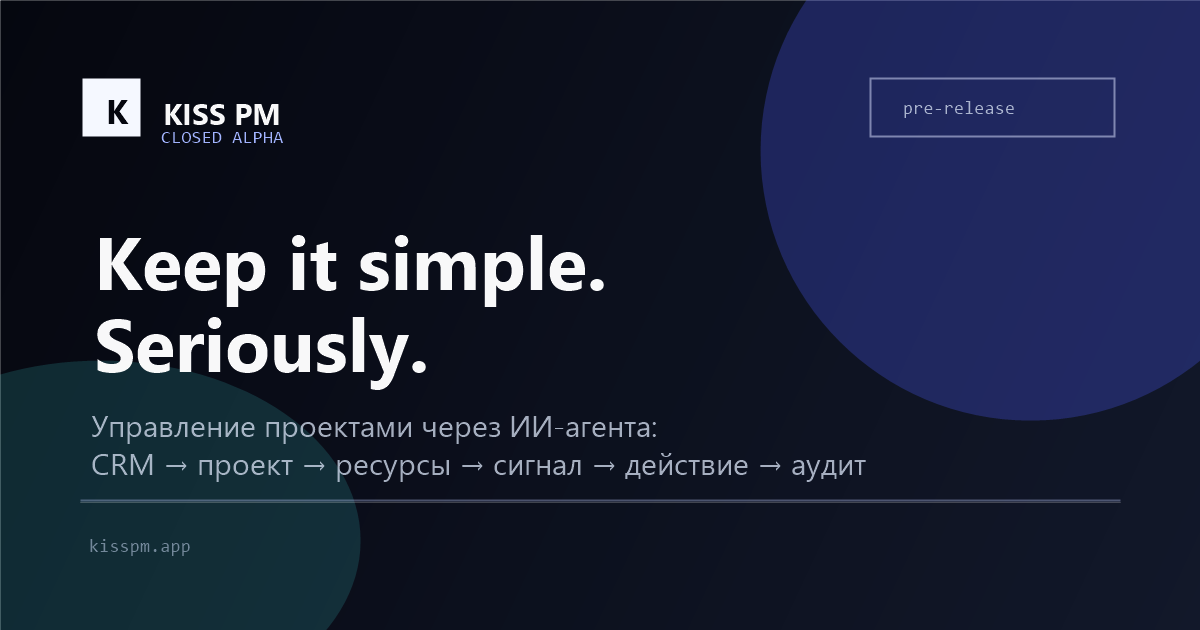
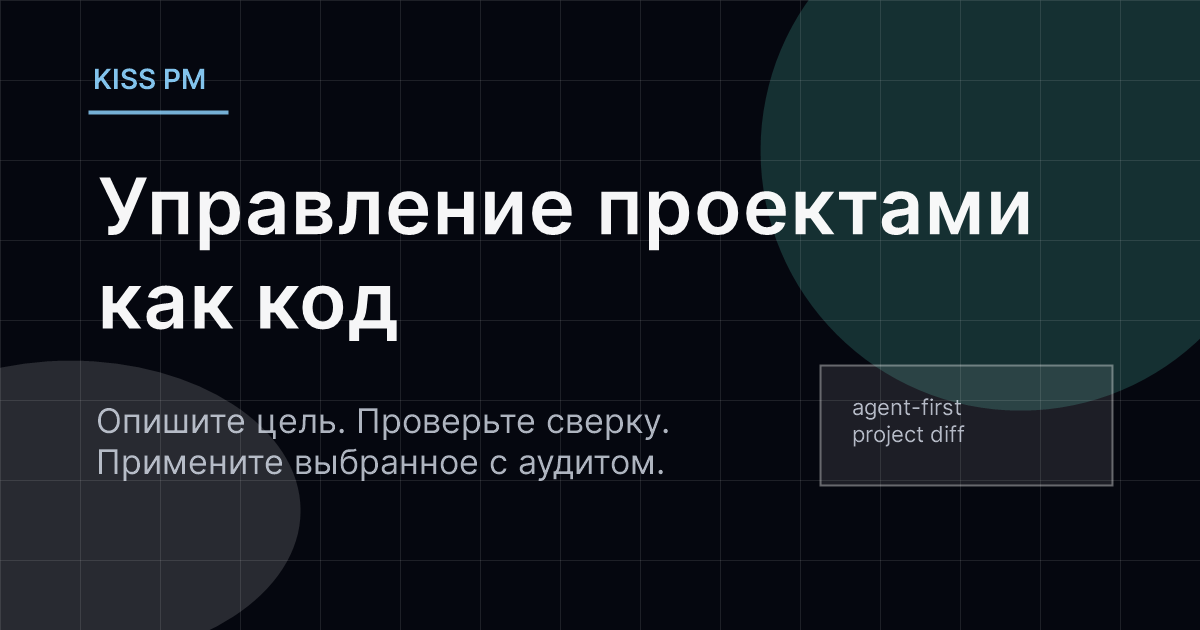
fix(landing): sharpen agent-first positioning

diff --git a/apps/landing/src/components/landing-agent-demo/components.tsx b/apps/landing/src/components/landing-agent-demo/components.tsx
@@ -132,7 +132,7 @@ export function AgentChatPanel({
   const isThinking = phase === "thinking" || phase === "activity" || phase === "second-thinking";
 
   return (
-    <section className="lad-chat" aria-label="Чат с Генри Ганттом">
+    <section className="lad-chat" aria-label="Чат с проектным агентом">
       <header className="lad-chat__header">
         <button className="lad-icon-button lad-mobile-only" type="button" onClick={onOpenMobileLeft}>
           <Icon name="menu" />
@@ -143,8 +143,8 @@ export function AgentChatPanel({
             <Icon name="agent" />
           </div>
           <div>
-            <h2>Генри Гантт</h2>
-            <span>Агент аккаунта</span>
+            <h2>Проектный агент</h2>
+            <span>Агент проекта</span>
           </div>
         </div>
         <div className="lad-chat__header-actions">
@@ -165,7 +165,7 @@ export function AgentChatPanel({
         {messages.length === 0 ? (
           <div className="lad-chat__empty">
             <Icon name="message" />
-            <span>Запрос уже набран. Отправьте его Генри.</span>
+            <span>Запрос уже набран. Отправьте его агенту.</span>
           </div>
         ) : null}
         {messages.map((message) => (
@@ -191,14 +191,14 @@ export function AgentChatPanel({
           className="lad-input"
           value={inputValue}
           onChange={(event) => onInputChange(event.target.value)}
-          placeholder="Спросите Генри или попросите изменить проект..."
-          aria-label="Сообщение Генри Гантту"
+          placeholder="Опишите цель или попросите изменить проект..."
+          aria-label="Сообщение проектному агенту"
         />
         <button
           className="lad-icon-button lad-attach-button"
           type="button"
           aria-label="Прикрепить файл"
-          onClick={() => onNote?.("Вложения доступны в продукте — в демо Генри работает с планом недели.")}
+          onClick={() => onNote?.("Вложения доступны в продукте — в демо агент работает с планом недели.")}
         >
           <Icon name="paperclip" />
         </button>
@@ -223,7 +223,7 @@ function MessageBubble({ message }: { message: DemoMessage }) {
       <div className="lad-message__avatar">{message.author === "henry" ? <Icon name="agent" /> : "Вы"}</div>
       <div className="lad-message__content">
         <div className="lad-message__meta">
-          <span>{message.author === "henry" ? "Генри Гантт" : "Вы"}</span>
+          <span>{message.author === "henry" ? "Проектный агент" : "Вы"}</span>
           <time>{message.time}</time>
         </div>
         <p>{message.text}</p>
@@ -243,7 +243,7 @@ function MessageBubble({ message }: { message: DemoMessage }) {
 
 export function AgentActivitySteps({ visibleSteps }: { visibleSteps: number }) {
   return (
-    <div className="lad-steps" aria-label="Действия Генри">
+    <div className="lad-steps" aria-label="Действия проектного агента">
       {ACTIVITY_STEPS.map((step, index) => (
         <div key={step} className={cx("lad-step", index < visibleSteps && "is-visible")}>
           <span className="lad-step__icon">
@@ -260,8 +260,8 @@ export function AgentStatusMenu({ onNote }: { onNote?: (note: string) => void })
   return (
     <div className="lad-agent-menu">
       <div className="lad-agent-menu__head">
-        <strong>Генри Гантт</strong>
-        <span>Агент аккаунта</span>
+        <strong>Проектный агент</strong>
+        <span>Агент проекта</span>
       </div>
       <dl>
         <div>

diff --git a/apps/landing/src/components/six-steps/steps.ts b/apps/landing/src/components/six-steps/steps.ts
@@ -21,7 +21,7 @@ export const SIX_STEPS: ReadonlyArray<StepDefinition> = [
     number: "01",
     category: "CRM",
     title: "Новая сделка",
-    description: "Фиксируйте входящие запросы и держите CRM рядом с будущим проектом.",
+    description: "Сохраняйте входящий запрос там, где он сразу может стать проектом.",
     demoType: "deal",
   },
   {
@@ -29,7 +29,7 @@ export const SIX_STEPS: ReadonlyArray<StepDefinition> = [
     number: "02",
     category: "ПРИЁМКА",
     title: "Черновик проекта",
-    description: "Собирайте вводные, роли и сроки до обещаний клиенту.",
+    description: "Превращайте вводные в черновик с ролями, сроками и ограничениями.",
     demoType: "draft",
   },
   {
@@ -37,7 +37,7 @@ export const SIX_STEPS: ReadonlyArray<StepDefinition> = [
     number: "03",
     category: "ЁМКОСТЬ",
     title: "Проверка загрузки",
-    description: "Проверяйте ресурсную загрузку до активации проекта.",
+    description: "Проверяйте загрузку команды до того, как обещать сроки.",
     demoType: "capacity",
   },
   {
@@ -45,7 +45,7 @@ export const SIX_STEPS: ReadonlyArray<StepDefinition> = [
     number: "04",
     category: "ПЛАН",
     title: "Живой график",
-    description: "Видите, как изменения влияют на задачи, сроки и Gantt.",
+    description: "Видите, какие задачи, сроки и зависимости изменит новый план.",
     demoType: "gantt",
   },
   {
@@ -53,7 +53,7 @@ export const SIX_STEPS: ReadonlyArray<StepDefinition> = [
     number: "05",
     category: "СИГНАЛ",
     title: "Управленческое действие",
-    description: "Сигнал ведёт к разрешённому действию, а не к ещё одному отчёту.",
+    description: "Агент предлагает действие, которое можно проверить и применить.",
     demoType: "signal",
   },
   {
@@ -61,7 +61,7 @@ export const SIX_STEPS: ReadonlyArray<StepDefinition> = [
     number: "06",
     category: "ЗАКРЫТИЕ",
     title: "Уроки в шаблон",
-    description: "Закрытие проекта улучшает шаблоны для следующих запусков.",
+    description: "Решения и итоги остаются в аудите и улучшают следующие шаблоны.",
     demoType: "closure",
   },
 ];

diff --git a/apps/landing/src/lib/landing-faq.ts b/apps/landing/src/lib/landing-faq.ts
@@ -1,19 +1,19 @@
 export const faqs = [
   {
     q: "Это очередной таск-трекер?",
-    a: "Нет. KISS PM не про «доски с задачами». Это контур управления проектами: сделка в CRM → проект → ресурсы → сигнал → действие → аудит. Задачи остаются частью модели, а не целью продукта.",
+    a: "Нет. KISS PM не про «доски с задачами». Это agent-first управление проектами как код: вы описываете цель, получаете сверку изменений по задачам, срокам и ресурсам, а затем применяете выбранное.",
   },
   {
     q: "Чем KISS PM отличается от Jira / Bitrix / MS Project?",
-    a: "Jira, Bitrix и MS Project сильны в отдельных зонах: задачи, CRM или диаграмма Ганта. KISS PM соединяет CRM и проекты в одной системе, ведет управление портфелем проектов через общий контур и фиксирует каждое существенное действие в аудите.",
+    a: "Jira, Bitrix и MS Project сильны в отдельных зонах: задачи, CRM или диаграмма Ганта. KISS PM соединяет CRM и проекты в одной системе и делает изменения проверяемыми: сначала сверка, потом применение и аудит.",
   },
   {
-    q: "Что делает ИИ-агент Генри Гантт?",
-    a: "Генри Гантт читает контекст проекта, задач, сроков и ресурсов, готовит сверку изменений и показывает, что именно предлагает поменять. Человек ревьюит сверку, выбирает нужное и применяет только разрешенные действия.",
+    q: "Что значит «управление проектами как код»?",
+    a: "Это не про программирование. Это про управляемые изменения: агент читает контекст проекта, предлагает конкретные правки, показывает сверку «было / стало», а человек применяет только разрешенные действия.",
   },
   {
     q: "Что значит «закрытая альфа»?",
-    a: "Мы открываем продукт небольшим командам, готовым проверить контур на реальных сценариях. Без массового набора и холодных рассылок. Участие бесплатно в обмен на честную обратную связь и совместную доработку шаблонов.",
+    a: "Мы открываем продукт небольшим командам, которым нужно быстрее принимать решения по проектам, ресурсам и срокам. Без массового набора, холодных звонков и рассылок. Участие бесплатно в обмен на честную обратную связь.",
   },
   {
     q: "Нужна ли отдельная команда внедрения?",
@@ -25,6 +25,6 @@ export const faqs = [
   },
   {
     q: "Когда будет публичный запуск?",
-    a: "После того, как контур пройдет несколько команд разного масштаба и стабилизируются настройки, сверка изменений и сценарии действий. Дата зависит от обратной связи участников закрытой альфы, а не от пресс-релиза.",
+    a: "После того, как закрытая альфа пройдет несколько команд разного масштаба и стабилизируются работа агента, сверка изменений, права и аудит. Дата зависит от обратной связи участников, а не от пресс-релиза.",
   },
 ] as const;

diff --git a/apps/landing/src/components/WaitlistForm.tsx b/apps/landing/src/components/WaitlistForm.tsx
@@ -130,9 +130,9 @@ export default function WaitlistForm() {
   return (
     <form className="wl" onSubmit={onSubmit} noValidate>
       <p className="wl__intro">
-        Короткая форма — без звонков и «менеджера по продажам».
+        Оставьте рабочую почту, если хотите посмотреть agent-first управление проектами как код.
         <br />
-        Ответ только на рабочую почту.
+        Ответим письмом, без звонков и рассылок.
       </p>
 
       <div className="wl__row">
@@ -222,7 +222,7 @@ export default function WaitlistForm() {
           id="wl-context"
           name="context"
           rows={3}
-          placeholder="Где сейчас давление: ресурсы, сроки, новые сделки, отчёты или решения."
+          placeholder="Что хотите проверить: агент, сверка изменений, ресурсы, сроки, CRM или аудит."
           maxLength={600}
           aria-invalid={Boolean(resolveError("context", fieldIssues, status))}
         />

diff --git a/apps/landing/src/components/six-steps/SixStepsHorizontalScroll.tsx b/apps/landing/src/components/six-steps/SixStepsHorizontalScroll.tsx
@@ -223,14 +223,14 @@ export default function SixStepsHorizontalScroll() {
       id="loop"
       className="horizontalScrollSection l-band--six-steps"
       ref={sectionRef}
-      aria-label="Шесть шагов процесса KISS PM"
+      aria-label="От цели к проверяемому изменению KISS PM"
       data-native-vertical-scroll
     >
       <div className="stickyViewport six-steps" ref={stickyRef}>
         <header className="sectionHeader six-steps-head">
           {/* без data-text-reveal: скрипт реврайтит DOM до гидрации React и ломает hydration */}
           <h2 id="loop-title" className="l-display six-steps-head__title">
-            Шесть шагов · один контур
+            От цели к проверяемому изменению
           </h2>
         </header>
 

diff --git a/apps/landing/src/components/demo/DemoContextPanel.tsx b/apps/landing/src/components/demo/DemoContextPanel.tsx
@@ -155,7 +155,7 @@ export function DemoContextPanel({ step, fixture, onExplore }: Props) {
         <ContextCard title="Неизменяемая запись" body="Фиксирует актора, действие, цель и причину — для ретроспективы и комплаенса.">
           <ContextStat label="Запись" value="#4128" />
         </ContextCard>
-        <ContextCard title="Связь с контуром" body="Сделка «ГК Север» → проверка ёмкости → сценарий → 112% → 94%.">
+        <ContextCard title="Почему это важно" body="Сделка «ГК Север» → проверка ёмкости → сценарий → 112% → 94%.">
           <ContextLink onClick={() => onExplore("Цепочка событий в ленте аудита.")}>Цепочка событий →</ContextLink>
         </ContextCard>
         <ContextCard title="Сценарий завершён" body="Можно начать демо сначала или вернуться к списку сделок.">

diff --git a/apps/landing/src/components/landing-agent-demo/scenario.ts b/apps/landing/src/components/landing-agent-demo/scenario.ts
@@ -1,6 +1,6 @@
 import type { DemoChange, LandingAgentDemoPreset, LandingAgentDemoState } from "./types";
 
-export const FIRST_PROMPT = "Генри, проверь задержку по дизайну, сделай сверку изменений и подготовь план на неделю.";
+export const FIRST_PROMPT = "Проверь задержку по дизайну, покажи сверку изменений и подготовь план на неделю.";
 export const SECOND_PROMPT = "Проверь, что сказать клиенту перед встречей.";
 
 export const ACTIVITY_STEPS = [